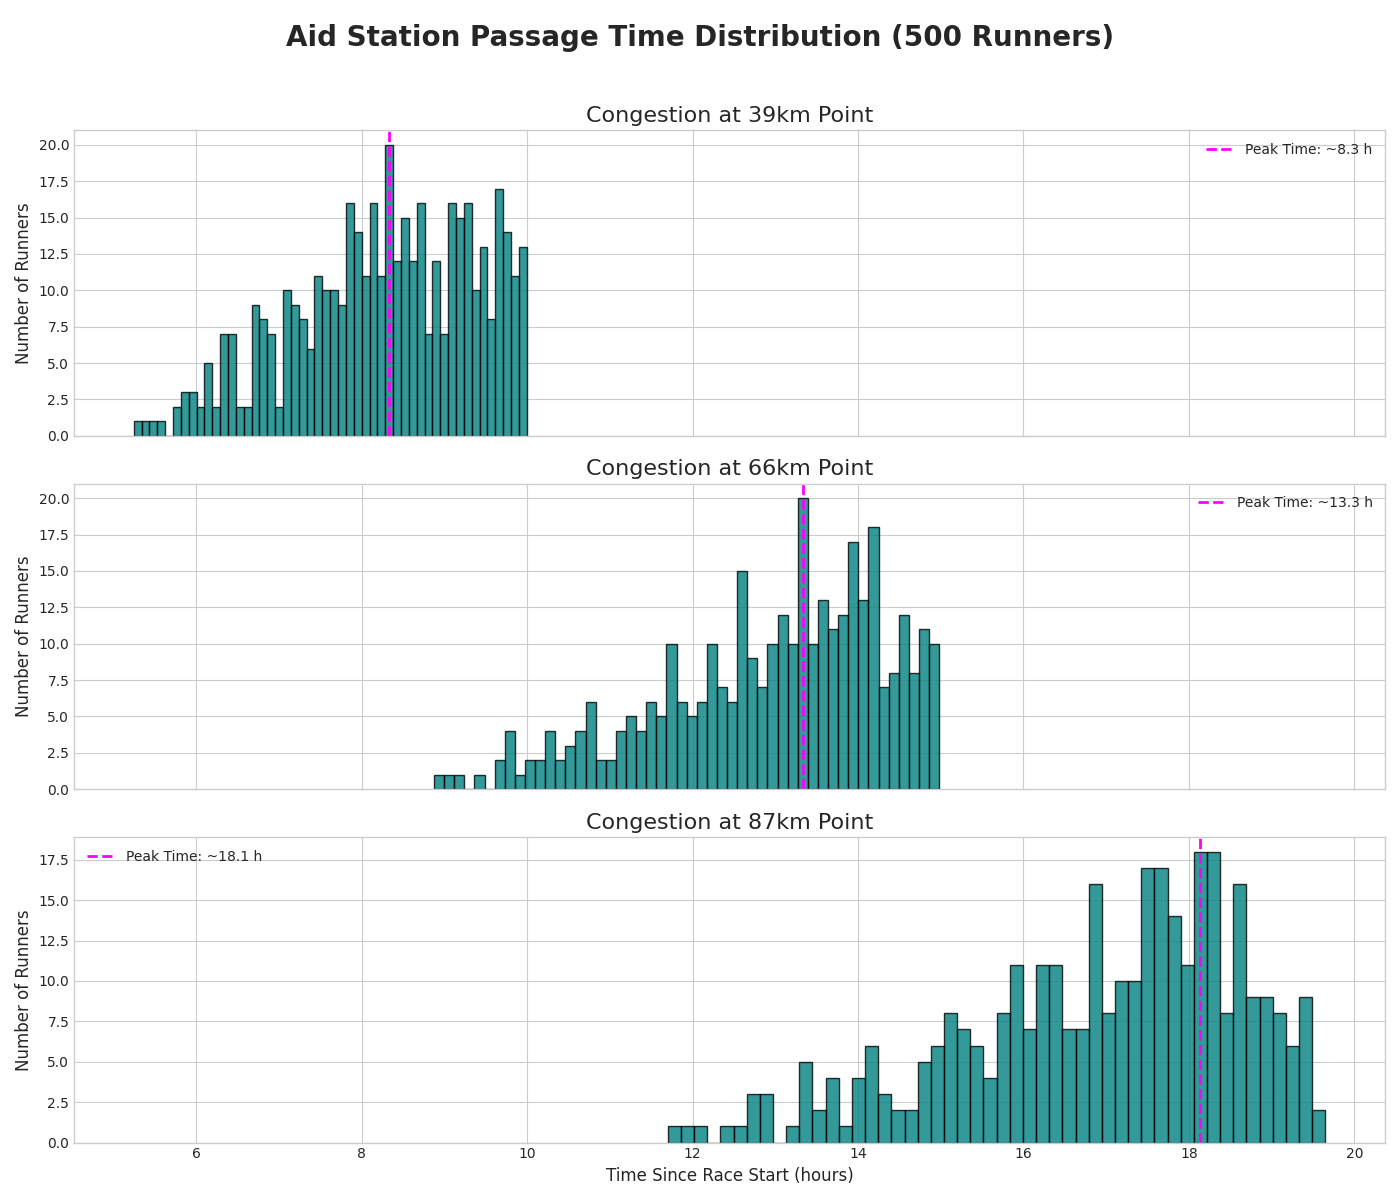
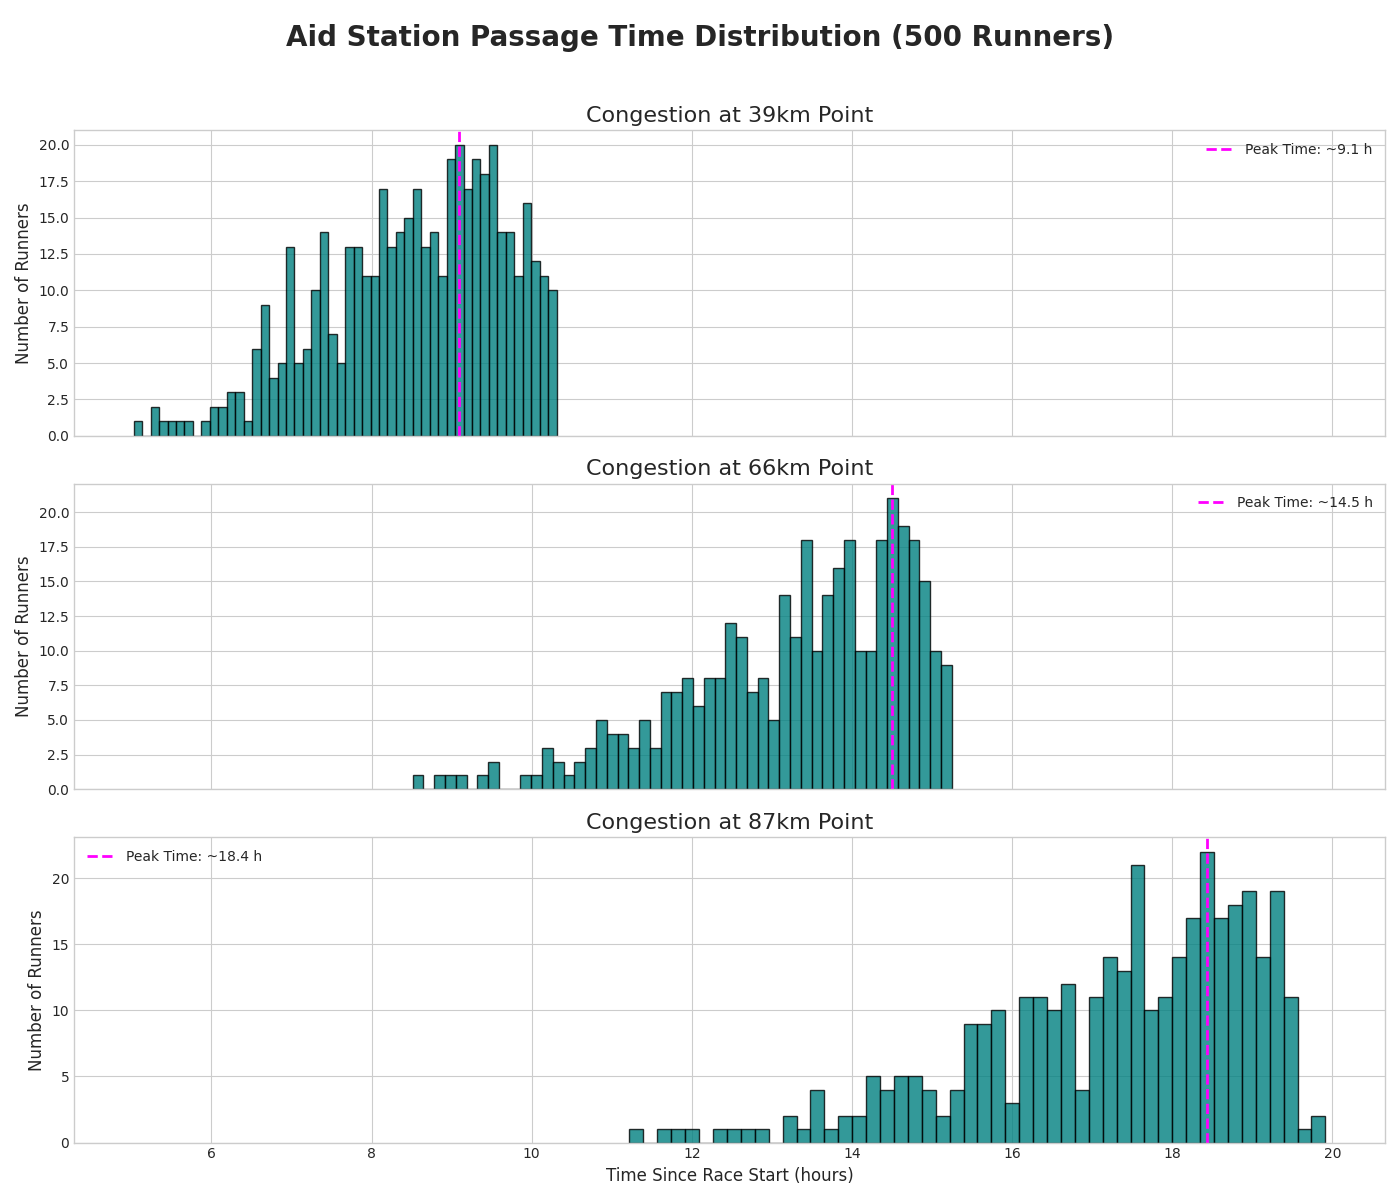
chore: slide the cutoff time when set the wavestart

diff --git a/src/single_track_simulation.py b/src/single_track_simulation.py
@@ -67,13 +67,23 @@ def run_congestion_simulation(num_runners, avg_pace_min_per_km, std_dev_pace, ti
         runner_positions[t] = runner_positions[t-1]
         current_time_sec = t * time_step_sec
         
-        # --- Check for cutoffs ---
+        # --- Check for cutoffs, considering wave starts ---
         for cutoff_dist_km, cutoff_time_h in cutoffs:
-            if current_time_sec >= cutoff_time_h * 3600:
+            cutoff_time_sec = cutoff_time_h * 3600
+            
+            # Optimization: only check if the current time is past the first possible cutoff time
+            if current_time_sec >= cutoff_time_sec:
                 cutoff_dist_m = cutoff_dist_km * 1000
-                # Find runners who are active but have not reached the cutoff point in time
+                
+                # Calculate each runner's personal cutoff time in seconds
+                # This is the base cutoff time plus their individual start delay
+                personal_cutoff_times_sec = cutoff_time_sec + runner_start_times_sec
+                
+                # Find runners who are active, have passed their personal cutoff time, 
+                # but have not reached the cutoff distance.
                 dnf_indices = np.where(
                     (runner_status == 'active') &
+                    (current_time_sec >= personal_cutoff_times_sec) &
                     (runner_positions[t] < cutoff_dist_m)
                 )[0]
                 
